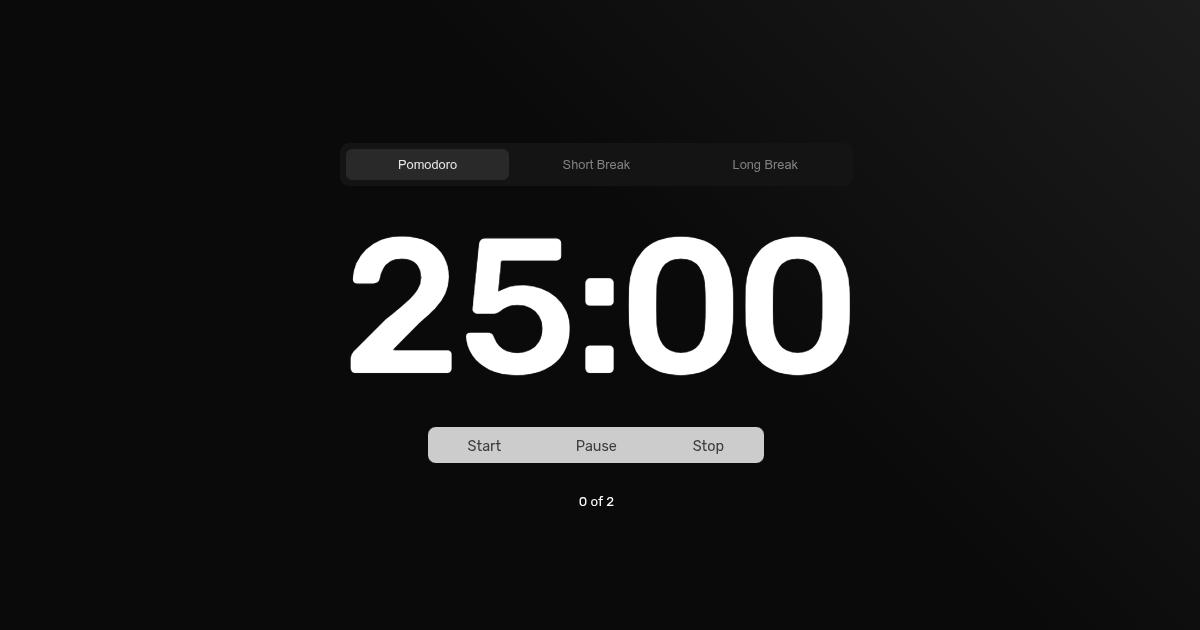
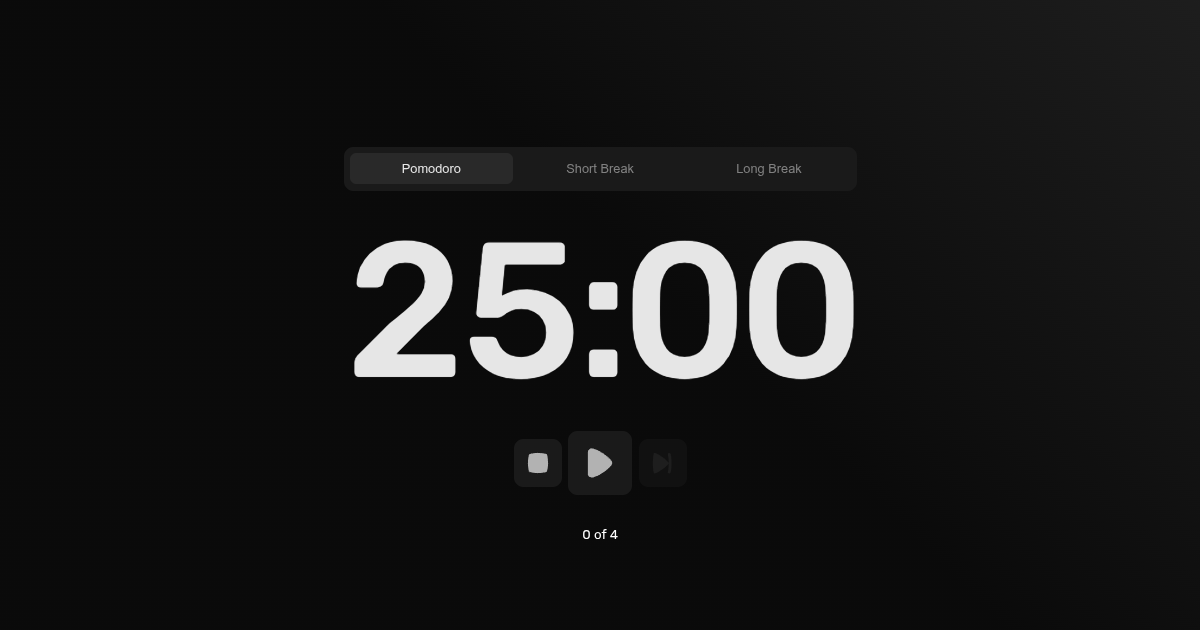
updating

diff --git a/src/pages/settings/settings.page.jsx b/src/pages/settings/settings.page.jsx
@@ -7,9 +7,6 @@ import { useAlarm } from '../../hooks/useAlarm'
 
 import './settings.page.scss'
 
-// [x]: Cuando se cambie un sonido reproducirlo
-// [x]: Cuando se hace reset en settings para que vuelva a sus antiguos valores no cambian los valores de los inputs (no desata un render)
-
 export function Settings({ className }) {
   const { playAlarm, stopAlarm } = useAlarm()
   const { settings, updateSettings, resetSettings } = useContext(SettingsContext)
@@ -182,7 +179,7 @@ export function Settings({ className }) {
             onChange={({ value, name }) => onInputChange(value, name, 'string')}
           ></Select>
         </fieldset>
-        <button className="reset-btn" onClick={resetSettings}>
+        <button className="reset-btn" onClick={resetSettings} title="Reset to default pomodoro values">
           <svg viewBox="0 0 24 24">
             <path d="M1.611,12c.759,0,1.375,.57,1.485,1.32,.641,4.339,4.389,7.68,8.903,7.68,5.476,0,9.827-4.917,8.867-10.569-.453-2.665-2.148-5.023-4.523-6.313-3.506-1.903-7.48-1.253-10.18,1.045l1.13,1.13c.63,.63,.184,1.707-.707,1.707H2c-.552,0-1-.448-1-1V2.414c0-.891,1.077-1.337,1.707-.707l1.332,1.332C7.6-.115,12.921-1.068,17.637,1.408c3.32,1.743,5.664,5.027,6.223,8.735,1.122,7.437-4.633,13.857-11.86,13.857-6.021,0-11.021-4.457-11.872-10.246-.135-.92,.553-1.754,1.483-1.754Z" />
           </svg>

diff --git a/src/hooks/useTimer.js b/src/hooks/useTimer.js
@@ -2,6 +2,7 @@ import { useContext, useEffect, useRef, useCallback } from 'react'
 import { SettingsContext, PomodoroContext } from '../context'
 import { endSessionNotify, notify } from '../tools/notification'
 import { useAlarm } from './useAlarm'
+import { secondsToTime } from '../tools'
 
 export const useTimer = () => {
   const {
@@ -149,6 +150,14 @@ export const useTimer = () => {
     }
     sendWorkerMessage(isRunning ? 'start' : 'pause')
   }, [isRunning, handleSessionEnd, notification])
+
+  // Cambiar el titulo con el conteo
+  useEffect(() => {
+    const mode = currentMode === 'pomo' ? 'Focus' : 'Break'
+    document.title = isRunning ? `${secondsToTime(timeLeft)} - ${mode}` : 'Pomodoto'
+
+    console.log(timeLeft)
+  }, [timeLeft, isRunning])
 
   return {
     startTimer,

diff --git a/src/components/Sidebar/Sidebar.jsx b/src/components/Sidebar/Sidebar.jsx
@@ -6,6 +6,12 @@ import logo from '/favicon.png'
 
 import './Sidebar.scss'
 
+// [ ]: Implementar lógica de login
+// [ ]: Componentizar enlaces para facilitar lectura
+// [ ]: Cambiar iconos
+// [ ]: Descargar licencia premium de los iconos usados
+// [ ]: Aplicar responsividad para celulares
+
 export function Sidebar() {
   return (
     <header className="sidebar">
@@ -13,7 +19,7 @@ export function Sidebar() {
         <img src={logo} alt="logo" />
         <div>
           <p className="sidebar__logo-title">Pomodoto</p>
-          <small className="sidebar__app-version">{VITE_APP_VERSION}</small>
+          <small className="sidebar__app-version">v{VITE_APP_VERSION}</small>
         </div>
       </div>
       <nav className="sidebar__nav">

diff --git a/src/components/Input/Select/Select.jsx b/src/components/Input/Select/Select.jsx
@@ -11,7 +11,7 @@ export function Select({
   value,
   onChange = (value) => console.log(value)
 }) {
-  // HACK: Porque el componente bloquea el scroll del body, buscarle solucion
+  // HACK: Se supone que el aria-componente bloquea el scroll cuando se abre, pero este no lo hace, investigar como cambiar la referencia del body a la que uno quiera desde la librería, mientras... utilizar este hack para cerrar el select cuando se mueva la rueda del ratón
 
   // Estado para gestionar la apertura del elemento
   const [isOpen, setIsOpen] = useState(false)

diff --git a/src/context/settings.context.jsx b/src/context/settings.context.jsx
@@ -1,16 +1,13 @@
 import { useEffect } from 'react'
 import { useState, createContext } from 'react'
 
-// [ ]: Guardar cambios de las configuraciones en localStorage
-// [ ]: Cargar settings del localStorage, si no existe cargar default settings
-
 export const SettingsContext = createContext(null)
 export const SettingsProvider = ({ children, isTesting = false }) => {
   const LOCAL_STORAGE_KEY = 'settings'
 
   const DEFAULT_SESSION_VALUES = isTesting
     ? {
-        pomo: 10.5 * 60,
+        pomo: 12,
         long: 8,
         short: 4
       }

diff --git a/src/App/App.jsx b/src/App/App.jsx
@@ -5,10 +5,7 @@ import { Sidebar } from '../components'
 import { requestNotificationPermission } from '../tools'
 import './App.scss'
 
-// [x]: Aplicar clase hidden en vez de usar renderizado condicional en el router
-// [x]: Añadir en el timer "x of x sessions ended"
-// [ ]: Cuando el timer inicie mostrar en la pestaña el tiempo
-// [ ]: Crear una rama prod y una rama dev, ademas de crear el pipeline con github y netlify
+// [x]: Cuando el timer inicie mostrar en la pestaña el tiempo
 
 const routes = [
   { path: '/', Component: Home },

diff --git a/src/components/Pomotimer/PomoTabs/PomoTabs.jsx b/src/components/Pomotimer/PomoTabs/PomoTabs.jsx
@@ -9,7 +9,7 @@ export const PomoTabs = () => {
     const button = event.target
     const mode = button.getAttribute('data-tab')
 
-    // [ ]: Crear dialog propio para manejar esto con mejor ui
+    // [ ]: Crear modal para manejar esto de mejor manera
     if (isRunning) {
       const isConfirmed = window.confirm('Si cambias ahora, se perderá el progreso de la sesión actual, estas seguro?')
       if (!isConfirmed) return

diff --git a/src/App/App.scss b/src/App/App.scss
@@ -32,30 +32,11 @@
   z-index: 0;
 }
 
-// 
+//
 
-main{
+main {
   position: relative;
   box-sizing: border-box;
 
   height: 100%;
 }
-
-// [ ]: Migrar Home a su propio hoja de estilos
-
-.home {
-  display: flex;
-  flex-direction: column;
-  justify-content: space-evenly;
-  gap: 1rem;
-}
-
-.hidden {
-  display: none;
-}
-
-// [x]: Migrar Settings a su propio hoja de estilos
-
-
-
-  

diff --git a/src/context/pomodoro.context.jsx b/src/context/pomodoro.context.jsx
@@ -3,8 +3,6 @@ import { useState, createContext } from 'react'
 export const PomodoroContext = createContext(null)
 
 export const PomodoroProvider = ({ children }) => {
-  // [x]: Crear un contexto exclusivo para configuraciones
-
   const [currentMode, setCurrentMode] = useState('pomo')
   const [timeLeft, setTimeLeft] = useState(null)
   const [isRunning, setIsRunning] = useState(false)

diff --git a/src/components/Pomotimer/PomoTimer.jsx b/src/components/Pomotimer/PomoTimer.jsx
@@ -10,7 +10,6 @@ export const PomoTimer = () => {
   const { timeLeft, endedPomodoros, isRunning } = useContext(PomodoroContext)
   const { startTimer, pauseTimer, stopTimer } = useTimer()
 
-  // [x]: Colocar iconos (play / pause - reset - next) en los botones
   // [ ]: Añadir función para forzar la siguiente sesión (next)
 
   return (

diff --git a/src/main.jsx b/src/main.jsx
@@ -10,7 +10,7 @@ createRoot(document.getElementById('root')).render(
       {/* Manejo de router */}
       <PageProvider>
         {/* Configuraciones globales */}
-        <SettingsProvider isTesting={false}>
+        <SettingsProvider isTesting={true}>
           <PomodoroProvider>
             <App />
           </PomodoroProvider>

diff --git a/src/components/Input/Switch/Switch.scss b/src/components/Input/Switch/Switch.scss
@@ -14,6 +14,8 @@
 
   background-color: $bl-100;
 
+  transition: filter 0.4s ease;
+
   &[disabled] {
     opacity: 0.2;
     pointer-events: none;
@@ -28,8 +30,6 @@
     filter: brightness(1.2) contrast(95%);
     box-shadow: 0 0 0.8rem hsla(0, 0%, 80%, 0.1);
   }
-
-  transition: filter 0.4s ease;
 }
 
 .switch {
